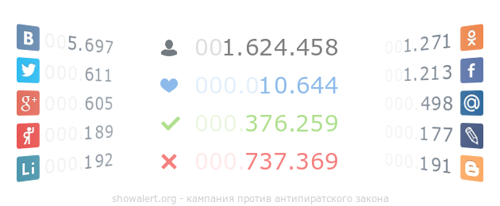
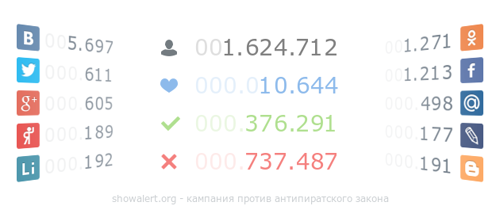
some updates

Changed region(s): [[0.6, 0.1748, 0.69, 0.2913], [0.57, 0.7282, 0.69, 0.8447], [0.6, 0.5534, 0.69, 0.6408]]

diff --git a/votes.js b/votes.js
@@ -1,1 +1,1 @@
-window.lk.votes(25034)
+window.lk.votes(25047)
